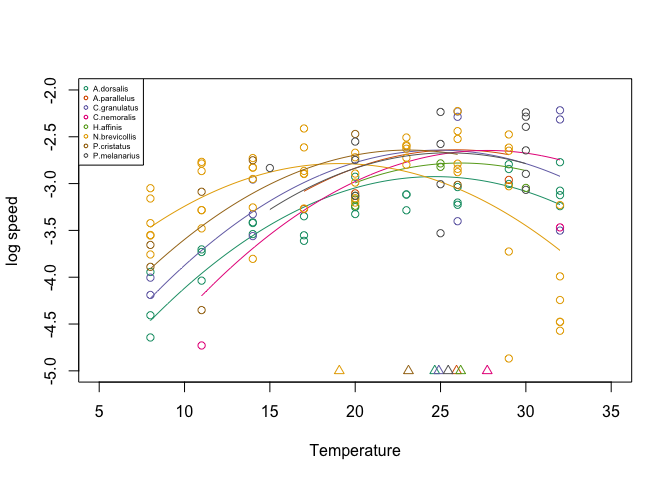
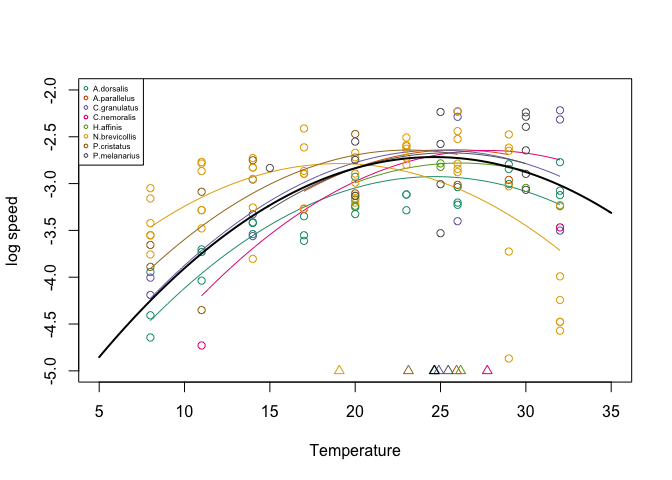
Plot the average species curve. Remove model with random chamber/year effects.

diff --git a/mixed_models.md b/mixed_models.md
@@ -60,27 +60,27 @@ summary(modsim1)
     ## Nonlinear mixed-effects model fit by maximum likelihood
     ##   Model: log.speed ~ metabfunc(log.mass.mg, temperature, a, b, z, w) 
     ##  Data: sim 
-    ##        AIC      BIC    logLik
-    ##   598.9635 613.1051 -294.4818
+    ##        AIC     BIC    logLik
+    ##   617.6835 631.825 -303.8417
     ## 
     ## Random effects:
     ##  Formula: z ~ 1 | species
     ##                z Residual
-    ## StdDev: 19.50943 1.875644
+    ## StdDev: 19.50473 2.027753
     ## 
     ## Fixed effects: a + b + w ~ 1 
     ##      Value Std.Error  DF  t-value p-value
-    ## a 7.208944 2.2388619 115  3.21991  0.0017
-    ## b 1.585157 0.3665965 115  4.32398  0.0000
-    ## w 5.182528 0.1366697 115 37.92010  0.0000
+    ## a 6.577685 2.1720476 115  3.02833   0.003
+    ## b 1.795299 0.3599476 115  4.98767   0.000
+    ## w 4.811977 0.1267697 115 37.95841   0.000
     ##  Correlation: 
     ##   a      b     
-    ## b -0.994       
-    ## w  0.140 -0.184
+    ## b -0.993       
+    ## w  0.134 -0.199
     ## 
     ## Standardized Within-Group Residuals:
     ##         Min          Q1         Med          Q3         Max 
-    ## -2.01833315 -0.65559766 -0.07565227  0.56991874  2.62046164 
+    ## -3.25844887 -0.50632168  0.01797997  0.66003337  2.27733668 
     ## 
     ## Number of Observations: 125
     ## Number of Groups: 8
@@ -97,32 +97,27 @@ print(data.frame(True = t(params), Est = fixef_est[, 'Value'], StdErr = fixef_es
 ```
 
     ##   True      Est    StdErr
-    ## a    5 7.208944 2.2388619
-    ## b    2 1.585157 0.3665965
-    ## w    5 5.182528 0.1366697
+    ## a    5 6.577685 2.1720476
+    ## b    2 1.795299 0.3599476
+    ## w    5 4.811977 0.1267697
 
 ``` r
 print(merge(ranefs, ranef_est))
 ```
 
     ##    species  z    z_est
-    ## 1:       a 12 11.88746
-    ## 2:       b 14 13.49746
-    ## 3:       c 16 15.94813
-    ## 4:       d 18 17.77766
-    ## 5:       e 20 19.58216
-    ## 6:       f 22 22.07463
-    ## 7:       g 24 24.33200
-    ## 8:       h 26 26.23038
+    ## 1:       a 12 11.98675
+    ## 2:       b 14 13.98351
+    ## 3:       c 16 15.70122
+    ## 4:       d 18 18.15094
+    ## 5:       e 20 20.02407
+    ## 6:       f 22 21.96469
+    ## 7:       g 24 24.15703
+    ## 8:       h 26 25.71081
 
 ## Real data
 
 ### Plot
-
-``` r
-ggplot(dat, aes(temperature, log.speed, color = species)) +
-    geom_point()
-```
 
 ![](mixed_models_files/figure-gfm/unnamed-chunk-5-1.png)<!-- -->
 
@@ -239,21 +234,9 @@ ranef(mod0)
 
 #### Plot vs. observed
 
-``` r
-dat[, pred_mod0 := predict(mod0)]
-ggplot(dat, aes(log.speed, pred_mod0, color = species)) +
-    geom_point() +
-    geom_abline(intercept = 0, slope = 1)
-```
-
 ![](mixed_models_files/figure-gfm/unnamed-chunk-8-1.png)<!-- -->
 
 #### Plot predictions
-
-``` r
-ggplot(dat, aes(temperature, pred_mod0, color = species)) +
-    geom_point()
-```
 
 ![](mixed_models_files/figure-gfm/unnamed-chunk-9-1.png)<!-- -->
 
@@ -319,194 +302,13 @@ print(ranef(mod1))
 
 #### Plot vs. observed
 
-``` r
-dat[, pred_mod1 := predict(mod1)]
-
-ggplot(dat, aes(log.speed, pred_mod1, color = species)) +
-    geom_point() +
-    geom_abline(intercept = 0, slope = 1)
-```
-
 ![](mixed_models_files/figure-gfm/unnamed-chunk-11-1.png)<!-- -->
 
 #### Plot predictions
 
-``` r
-preds <- as.data.table(expand.grid(temperature = seq(5, 35, by = 0.1), 
-                                   species = unique(dat$species), 
-                                   chamber = unique(dat$chamber), year = unique(dat$year),
-                                   stringsAsFactors = FALSE))
-mass <- dat[, .(log.mass.mg = mean(log.mass.mg)), by = species]
-preds <- merge(preds, mass)
+Each species’ curve is shown with its T\_opt plotted as a triangle at
+the bottom. The cross-species average is plotted in black.
 
-preds[, pred_mod1 := predict(mod1, newdata = preds)]
-
-ranefs <- ranef(mod1)
-ranefs$species = rownames(ranefs)
-ranefs <- as.data.table(ranefs)
-
-cols <- brewer.pal(8, 'Dark2')
-sp <- unique(preds$species)
-
-plot(0,0, xlim=c(5,35), ylim = c(-5,-2), xlab = 'Temperature', ylab = 'log speed')
-for(i in 1:length(sp)){
-    minT <- dat[species == sp[i], min(temperature)]
-    maxT <- dat[species == sp[i], max(temperature)]
-    dat[species == sp[i], points(temperature, log.speed, col = cols[i])]
-    ave <- preds[species == sp[i] & 
-                     temperature >= minT & temperature <= maxT &
-                     !is.na(pred_mod1), .(pred_mod1 = mean(pred_mod1)), by = temperature]
-  ave[, lines(temperature, pred_mod1, col = cols[i])]
-  ranefs[species == sp[i], points(fixef(mod1)[4] + z, -5, col = cols[i], pch = 2)]
-}
-legend('topleft', legend = sp, pch = 1, col = cols, cex = 0.5)
-```
+    ## NULL
 
 ![](mixed_models_files/figure-gfm/unnamed-chunk-12-1.png)<!-- -->
-
-### Model with random optimal temperatures and chamber and year effects
-
-Not working well. Assigns most of the random effects to year differences
-rather than species differences. Would be better to have separate random
-effects for the optimal temperature (by species) and for an intercept
-(by chamber/year).
-
-``` r
-metabfunc3 <- function(lmass, temp, a, b, z0, z, w){
-    lspeed <- a + b * lmass - (temp - z0 + z)^2/w
-}
-
-
-mod2 <- nlme(log.speed ~ metabfunc3(log.mass.mg, temperature, a, b, z0, z, w), 
-             fixed = a + b + w + z0 ~ 1,
-             random = z ~1|species/chamber/year,
-             start = list(fixed = c(a =  -3.2, b = 0.09, w = 100, z0= 20)),
-             data = dat)
-summary(mod2)
-```
-
-    ## Nonlinear mixed-effects model fit by maximum likelihood
-    ##   Model: log.speed ~ metabfunc3(log.mass.mg, temperature, a, b, z0, z,      w) 
-    ##  Data: dat 
-    ##        AIC      BIC    logLik
-    ##   148.6538 171.2803 -66.32691
-    ## 
-    ## Random effects:
-    ##  Formula: z ~ 1 | species
-    ##                   z
-    ## StdDev: 0.001968713
-    ## 
-    ##  Formula: z ~ 1 | chamber %in% species
-    ##                    z
-    ## StdDev: 1.176893e-05
-    ## 
-    ##  Formula: z ~ 1 | year %in% chamber %in% species
-    ##                z  Residual
-    ## StdDev: 3.244388 0.3746469
-    ## 
-    ## Fixed effects: a + b + w + z0 ~ 1 
-    ##        Value Std.Error  DF    t-value p-value
-    ## a   -3.18915  0.162064 105 -19.678349  0.0000
-    ## b    0.10333  0.037014 105   2.791699  0.0062
-    ## w  172.59041 19.766269 105   8.731562  0.0000
-    ## z0  24.21939  1.047326 105  23.124981  0.0000
-    ##  Correlation: 
-    ##    a      b      w     
-    ## b  -0.954              
-    ## w  -0.221  0.025       
-    ## z0 -0.088  0.059  0.278
-    ## 
-    ## Standardized Within-Group Residuals:
-    ##        Min         Q1        Med         Q3        Max 
-    ## -3.4065079 -0.6169082  0.1343473  0.5521325  3.0385260 
-    ## 
-    ## Number of Observations: 125
-    ## Number of Groups: 
-    ##                        species           chamber %in% species 
-    ##                              8                             16 
-    ## year %in% chamber %in% species 
-    ##                             17
-
-``` r
-print(ranef(mod2))
-```
-
-    ## Level: species 
-    ##                           z
-    ## A.dorsalis    -4.057643e-08
-    ## A.parallelus  -9.156229e-07
-    ## C.granulatus  -4.273710e-07
-    ## C.nemoralis   -7.841352e-07
-    ## H.affinis     -1.006142e-06
-    ## N.brevicollis  3.817253e-06
-    ## P.cristatus    7.166862e-08
-    ## P.melanarius  -7.150794e-07
-    ## 
-    ## Level: chamber %in% species 
-    ##                              z
-    ## A.dorsalis/D3    -5.609541e-12
-    ## A.dorsalis/D4     4.159482e-12
-    ## A.parallelus/D3  -2.010628e-11
-    ## A.parallelus/D4  -1.261486e-11
-    ## C.granulatus/D3   1.971614e-13
-    ## C.granulatus/D4  -1.546990e-11
-    ## C.nemoralis/D3    3.086936e-11
-    ## C.nemoralis/D4   -5.889159e-11
-    ## H.affinis/D3     -1.142367e-11
-    ## H.affinis/D4     -2.453231e-11
-    ## N.brevicollis/D3  4.172448e-11
-    ## N.brevicollis/D4  9.469070e-11
-    ## P.cristatus/D3    3.172086e-11
-    ## P.cristatus/D4   -2.915967e-11
-    ## P.melanarius/D3  -1.996794e-11
-    ## P.melanarius/D4  -5.586478e-12
-    ## 
-    ## Level: year %in% chamber %in% species 
-    ##                                 z
-    ## A.dorsalis/D3/2020    -0.42615839
-    ## A.dorsalis/D4/2020     0.31599701
-    ## A.parallelus/D3/2020  -1.52747946
-    ## A.parallelus/D4/2020  -0.95835455
-    ## C.granulatus/D3/2020   0.01497841
-    ## C.granulatus/D4/2020  -1.17525238
-    ## C.nemoralis/D3/2019    2.34515426
-    ## C.nemoralis/D4/2019   -4.47401101
-    ## H.affinis/D3/2018     -0.86785937
-    ## H.affinis/D4/2018     -1.86372652
-    ## N.brevicollis/D3/2019  3.16982061
-    ## N.brevicollis/D4/2019  7.19367906
-    ## P.cristatus/D3/2019    2.40984259
-    ## P.cristatus/D4/2019   -3.03723452
-    ## P.cristatus/D4/2020    0.82196581
-    ## P.melanarius/D3/2018  -1.51697013
-    ## P.melanarius/D4/2018  -0.42440635
-
-#### Plot predictions
-
-``` r
-preds <- as.data.table(expand.grid(temperature = seq(5, 35, by = 0.1), 
-                                   species = unique(dat$species), 
-                                   chamber = unique(dat$chamber), year = unique(dat$year),
-                                   stringsAsFactors = FALSE))
-mass <- dat[, .(log.mass.mg = mean(log.mass.mg)), by = species]
-preds <- merge(preds, mass)
-
-preds[, pred_mod2 := predict(mod2, newdata = preds)]
-
-cols <- brewer.pal(8, 'Dark2')
-sp <- unique(preds$species)
-
-plot(0,0, xlim=c(5,35), ylim = c(-5,-2), xlab = 'Temperature', ylab = 'log speed')
-for(i in 1:length(sp)){
-    minT <- dat[species == sp[i], min(temperature)]
-    maxT <- dat[species == sp[i], max(temperature)]
-    dat[species == sp[i], points(temperature, log.speed, col = cols[i])]
-    ave <- preds[species == sp[i] & 
-                     temperature >= minT & temperature <= maxT &
-                     !is.na(pred_mod2), .(pred_mod2 = mean(pred_mod2)), by = temperature]
-  ave[, lines(temperature, pred_mod2, col = cols[i])]
-  
-}
-```
-
-![](mixed_models_files/figure-gfm/unnamed-chunk-14-1.png)<!-- -->
